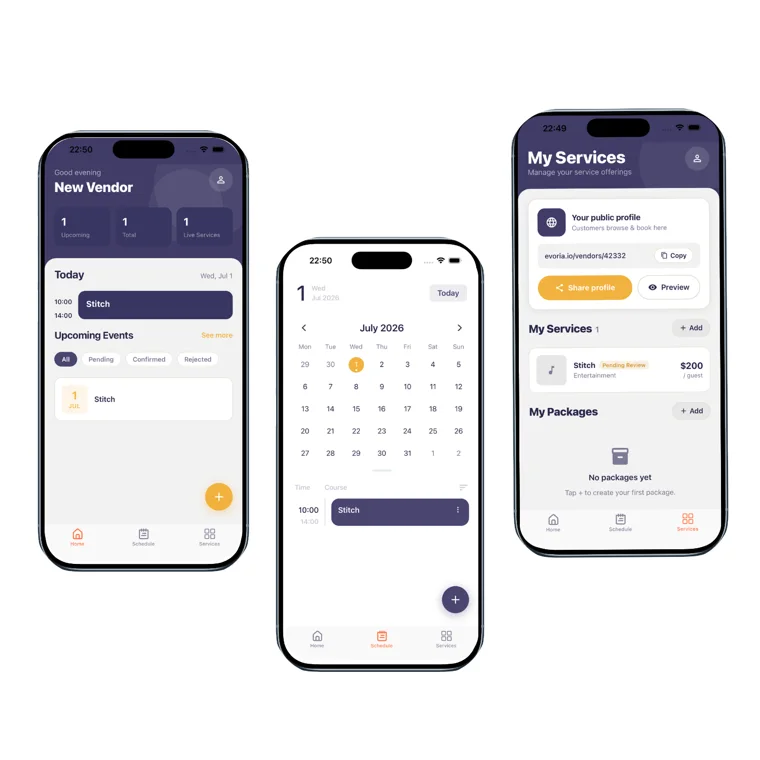
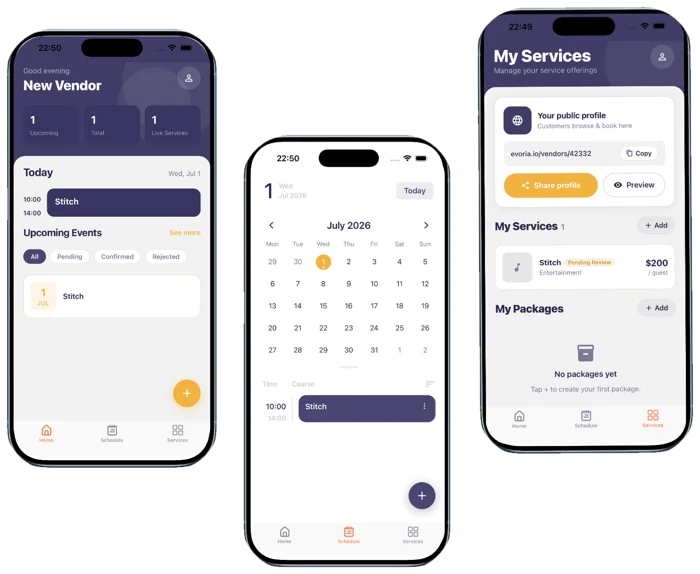
Digital portfolio: no arch backgrounds, smaller exhibits, live sites
- App mockups re-cut as transparent images (outer white removed, screen
  whites kept) and shown without arch/tint, with a soft drop shadow
- Exhibits narrower (max ~1120px, media max 520px) with smaller titles
- Websites now lead with the live Evoria (evoria.io/hy) and Aybora
  (aybora.app) sites as linked typographic browser covers, then Eleene;
  Maison concept removed; exhibits renumbered; meta, schema, llms.txt
  and CLAUDE.md updated

Claude-Session: https://claude.ai/code/session_01JBj9Hz9NSGFPfHG2UGjXpC

diff --git a/websites-apps.html b/websites-apps.html
@@ -12,7 +12,7 @@
 </script>
 <meta name="viewport" content="width=device-width, initial-scale=1, viewport-fit=cover">
 <title>Websites &amp; Mobile Apps — Selected Digital Work | Eleene</title>
-<meta name="description" content="Websites and mobile apps designed and developed by Eleene: an immersive studio website, a brand concept, and iOS and Android apps for events, recipes, travel, recovery and wellness.">
+<meta name="description" content="Websites and mobile apps designed and developed by Eleene: live websites for Evoria and Aybora, the Eleene studio site, and iOS and Android apps for events, recipes, travel, recovery and wellness.">
 <meta name="theme-color" content="#F4EFE7">
 <meta name="robots" content="index, follow, max-image-preview:large">
 <link rel="canonical" href="https://elinahovakimyan.com/websites-apps.html">
@@ -41,12 +41,14 @@
   "mainEntity": {
     "@type": "ItemList",
     "itemListElement": [
-      { "@type": "ListItem", "position": 1, "item": { "@type": "WebSite", "name": "Eleene", "url": "https://elinahovakimyan.com/" } },
-      { "@type": "ListItem", "position": 2, "item": { "@type": "SoftwareApplication", "name": "Evoria", "applicationCategory": "BusinessApplication", "operatingSystem": "iOS, Android" } },
-      { "@type": "ListItem", "position": 3, "item": { "@type": "SoftwareApplication", "name": "Culinar", "applicationCategory": "LifestyleApplication", "operatingSystem": "iOS, Android" } },
-      { "@type": "ListItem", "position": 4, "item": { "@type": "SoftwareApplication", "name": "Travio", "applicationCategory": "TravelApplication", "operatingSystem": "iOS, Android" } },
-      { "@type": "ListItem", "position": 5, "item": { "@type": "SoftwareApplication", "name": "Prehab101", "applicationCategory": "HealthApplication", "operatingSystem": "iOS, Android" } },
-      { "@type": "ListItem", "position": 6, "item": { "@type": "SoftwareApplication", "name": "Casana", "applicationCategory": "LifestyleApplication", "operatingSystem": "iOS, Android" } }
+      { "@type": "ListItem", "position": 1, "item": { "@type": "WebSite", "name": "Evoria", "url": "https://evoria.io/hy" } },
+      { "@type": "ListItem", "position": 2, "item": { "@type": "WebSite", "name": "Aybora", "url": "https://aybora.app/" } },
+      { "@type": "ListItem", "position": 3, "item": { "@type": "WebSite", "name": "Eleene", "url": "https://elinahovakimyan.com/" } },
+      { "@type": "ListItem", "position": 4, "item": { "@type": "SoftwareApplication", "name": "Evoria", "applicationCategory": "BusinessApplication", "operatingSystem": "iOS, Android" } },
+      { "@type": "ListItem", "position": 5, "item": { "@type": "SoftwareApplication", "name": "Culinar", "applicationCategory": "LifestyleApplication", "operatingSystem": "iOS, Android" } },
+      { "@type": "ListItem", "position": 6, "item": { "@type": "SoftwareApplication", "name": "Travio", "applicationCategory": "TravelApplication", "operatingSystem": "iOS, Android" } },
+      { "@type": "ListItem", "position": 7, "item": { "@type": "SoftwareApplication", "name": "Prehab101", "applicationCategory": "HealthApplication", "operatingSystem": "iOS, Android" } },
+      { "@type": "ListItem", "position": 8, "item": { "@type": "SoftwareApplication", "name": "Casana", "applicationCategory": "LifestyleApplication", "operatingSystem": "iOS, Android" } }
     ]
   }
 }
@@ -171,6 +173,19 @@ section{position:relative}
 @keyframes path1{0%{transform:translate(0,0) rotate(10deg);opacity:0}6%{opacity:1}30%{transform:translate(38vw,-6vh) rotate(-6deg)}55%{transform:translate(62vw,8vh) rotate(12deg)}80%{transform:translate(90vw,-4vh) rotate(-4deg);opacity:1}100%{transform:translate(115vw,2vh);opacity:0}}
 @keyframes path2{0%{transform:translate(0,0);opacity:0}8%{opacity:1}40%{transform:translate(45vw,-10vh) rotate(8deg)}70%{transform:translate(80vw,4vh) rotate(-8deg);opacity:1}100%{transform:translate(118vw,-6vh);opacity:0}}
 
+.site-card{display:block;position:relative;padding:0 6% 8% 0}
+.site-cover{display:grid;place-items:center;align-content:center;gap:10px;text-align:center;color:var(--ink);
+  background:radial-gradient(70% 60% at 25% 25%,rgba(255,255,255,.85),transparent 70%),var(--cover,#ECE6F3)}
+.tone-lilac{--cover:linear-gradient(135deg,#EFE9F6,#DCD3EA)}
+.tone-sage{--cover:linear-gradient(135deg,#EEF0E6,#DCE2D2)}
+.tone-lilac .site-cover{background:radial-gradient(70% 60% at 25% 25%,rgba(255,255,255,.85),transparent 70%),linear-gradient(135deg,#EFE9F6,#D9CFE9)}
+.tone-sage .site-cover{background:radial-gradient(70% 60% at 25% 25%,rgba(255,255,255,.85),transparent 70%),linear-gradient(135deg,#F0F1E8,#D7DECB)}
+.site-cover b{font-family:var(--font-display);font-weight:300;font-size:clamp(40px,5vw,72px);line-height:1;letter-spacing:-.01em}
+.site-cover em{font-family:var(--font-display);font-size:clamp(16px,1.5vw,20px);color:var(--ink-soft)}
+.site-cover__star{color:var(--rouge);font-size:18px}
+.site-cover__cta{margin-top:10px;font-size:10.5px;letter-spacing:.22em;text-transform:uppercase;padding:10px 18px;border-radius:999px;background:rgba(255,255,255,.75);box-shadow:inset 0 0 0 1px rgba(168,138,90,.3);transition:background .4s,color .4s}
+.site-card:hover .site-cover__cta{background:var(--ink);color:var(--paper)}
+.site-card:hover .browser{translate:0 -8px}
 /* section heads */
 .sec{padding:clamp(100px,12vw,180px) 0}
 .sec-head{display:grid;gap:26px;align-items:end;margin-bottom:clamp(60px,8vw,110px)}
@@ -179,17 +194,16 @@ section{position:relative}
 .room-no{display:flex;gap:14px;align-items:baseline}.room-no .roman{font-size:26px}
 
 /* exhibits */
-.exhibit{display:grid;grid-template-columns:1.25fr .75fr;gap:clamp(30px,5vw,90px);align-items:center;margin-bottom:clamp(100px,12vw,180px);scroll-margin-top:90px}
+.exhibit{display:grid;grid-template-columns:1fr 1fr;gap:clamp(30px,5vw,80px);align-items:center;max-width:1120px;margin:0 auto clamp(80px,9vw,140px);scroll-margin-top:90px}
 .exhibit:last-child{margin-bottom:0}
-.exhibit.flip{grid-template-columns:.75fr 1.25fr}
+.exhibit.flip{grid-template-columns:1fr 1fr}
 .exhibit.flip .exhibit__media{order:2}
-.exhibit__media{position:relative}
-.vitrine{position:relative;border-radius:999px 999px 28px 28px;overflow:hidden;background:var(--tint,#EFE7E0);box-shadow:0 50px 90px -50px rgba(70,35,30,.5),inset 0 0 0 1px rgba(168,138,90,.18)}
-.vitrine::before{content:"";position:absolute;inset:0;background:radial-gradient(60% 50% at 50% 35%,rgba(255,255,255,.7),transparent 70%);pointer-events:none}
-.vitrine img{position:relative;width:100%;aspect-ratio:1/1.08;object-fit:contain;padding:17% 5% 3%;mix-blend-mode:multiply;transition:transform 1.4s var(--ease)}
-.exhibit:hover .vitrine img{transform:scale(1.03)}
+.exhibit__media{position:relative;width:100%;max-width:520px;justify-self:center}
+.vitrine{position:relative}
+.vitrine img{position:relative;width:100%;height:auto;filter:drop-shadow(0 28px 30px rgba(70,35,30,.22)) drop-shadow(0 4px 6px rgba(70,35,30,.12));transition:transform 1.2s var(--ease)}
+.exhibit:hover .vitrine img{transform:translateY(-8px)}
 .placard .no{font-size:10.5px;letter-spacing:.26em;text-transform:uppercase;color:var(--ink-faint)}
-.placard h3{font-family:var(--font-display);font-weight:300;font-size:clamp(46px,5.4vw,84px);line-height:1;margin:14px 0 6px;letter-spacing:-.01em}
+.placard h3{font-family:var(--font-display);font-weight:300;font-size:clamp(40px,4.2vw,64px);line-height:1;margin:14px 0 6px;letter-spacing:-.01em}
 .placard .kind{font-family:var(--font-display);font-style:italic;font-size:clamp(20px,1.8vw,26px);color:var(--rouge)}
 .placard p{color:var(--ink-soft);margin:20px 0 0;max-width:30em}
 .facts{list-style:none;padding:0;margin:26px 0 0;display:grid;gap:0;border-top:1px solid var(--line);max-width:30em}
@@ -201,7 +215,7 @@ section{position:relative}
 @media(max-width:899px){
   .exhibit,.exhibit.flip{grid-template-columns:1fr;gap:34px}
   .exhibit.flip .exhibit__media{order:0}
-  .vitrine{border-radius:200px 200px 22px 22px}
+  .exhibit__media{max-width:440px}
 }
 
 /* apps section band */
@@ -279,7 +293,7 @@ footer nav{display:flex;gap:22px;flex-wrap:wrap}footer a:hover{color:var(--moon)
     <div>
       <div class="room-no" data-fade><span class="roman">VI.</span><span class="eyebrow">Selected digital work</span></div>
       <h1 class="display" id="page-title" data-fade>Digital places, <br><em>designed and built.</em></h1>
-      <p class="lede" data-fade>Websites and mobile apps I've designed and developed — real products in real hands, alongside concepts that show where a brand could go next.</p>
+      <p class="lede" data-fade>Websites and mobile apps I've designed and developed — real products, live online and in the App Store and Google Play.</p>
       <div class="chips" data-fade>
         <a class="chip" href="#websites"><b>i.</b> Websites</a>
         <a class="chip" href="#apps"><b>ii.</b> Mobile apps</a>
@@ -304,6 +318,58 @@ footer nav{display:flex;gap:22px;flex-wrap:wrap}footer a:hover{color:var(--moon)
       <p class="lede" data-fade>Designed and developed end to end — art direction, layout, motion and the code underneath — so the site feels as considered as the brand behind it, and works on every screen.</p>
     </div>
 
+    <article class="exhibit" id="evoria-site">
+      <div class="exhibit__media" data-fade>
+        <a class="site-card tone-lilac" href="https://evoria.io/hy" target="_blank" rel="noopener" aria-label="Visit Evoria — evoria.io (opens in a new tab)">
+          <div class="browser float tilt-l"><div class="browser__bar"><i></i><i></i><i></i><span>evoria.io</span></div>
+            <div class="browser__screen site-cover">
+              <span class="site-cover__star" aria-hidden="true">✦</span>
+              <b>Evoria</b>
+              <em>evoria.io</em>
+              <span class="site-cover__cta">Visit the live site ↗</span>
+            </div>
+          </div>
+        </a>
+      </div>
+      <div class="placard" data-fade>
+        <span class="no">No. 01 · Live</span>
+        <h3>Evoria</h3>
+        <span class="kind">Website for an event-planning platform</span>
+        <p>The public home of Evoria — the event-planning platform whose vendor app you will find further down this page. Shown here in its Armenian edition.</p>
+        <ul class="facts">
+          <li><span>Role</span><span>Design &amp; development</span></li>
+          <li><span>Live at</span><span>evoria.io</span></li>
+        </ul>
+        <a class="link-arrow" href="https://evoria.io/hy" target="_blank" rel="noopener">Visit evoria.io <span aria-hidden="true">↗</span></a>
+      </div>
+    </article>
+
+    <article class="exhibit flip" id="aybora">
+      <div class="exhibit__media" data-fade>
+        <a class="site-card tone-sage" href="https://aybora.app/" target="_blank" rel="noopener" aria-label="Visit Aybora — aybora.app (opens in a new tab)">
+          <div class="browser float tilt-l"><div class="browser__bar"><i></i><i></i><i></i><span>aybora.app</span></div>
+            <div class="browser__screen site-cover">
+              <span class="site-cover__star" aria-hidden="true">✦</span>
+              <b>Aybora</b>
+              <em>aybora.app</em>
+              <span class="site-cover__cta">Visit the live site ↗</span>
+            </div>
+          </div>
+        </a>
+      </div>
+      <div class="placard" data-fade>
+        <span class="no">No. 02 · Live</span>
+        <h3>Aybora</h3>
+        <span class="kind">Live website</span>
+        <p>A live website, designed and developed from first layout to launch.</p>
+        <ul class="facts">
+          <li><span>Role</span><span>Design &amp; development</span></li>
+          <li><span>Live at</span><span>aybora.app</span></li>
+        </ul>
+        <a class="link-arrow" href="https://aybora.app/" target="_blank" rel="noopener">Visit aybora.app <span aria-hidden="true">↗</span></a>
+      </div>
+    </article>
+
     <article class="exhibit" id="eleene">
       <div class="exhibit__media" data-fade>
         <span class="sparkle" style="right:2%;top:-4%">✦</span>
@@ -313,7 +379,7 @@ footer nav{display:flex;gap:22px;flex-wrap:wrap}footer a:hover{color:var(--moon)
         </div>
       </div>
       <div class="placard" data-fade>
-        <span class="no">No. 01 · Live</span>
+        <span class="no">No. 03 · Live</span>
         <h3>Eleene</h3>
         <span class="kind">An immersive studio website</span>
         <p>The site you are on. A portfolio told as a walk through museum rooms: images that orbit the headline, a gallery that moves sideways as you scroll, a screening room after dark, and small living details — butterflies, drifting petals, a hot-air balloon — that appear without getting in the way of reading.</p>
@@ -326,33 +392,6 @@ footer nav{display:flex;gap:22px;flex-wrap:wrap}footer a:hover{color:var(--moon)
       </div>
     </article>
 
-    <article class="exhibit flip" id="maison">
-      <div class="exhibit__media" data-fade>
-        <span class="sparkle" style="left:0;top:4%;animation-delay:-1.5s">✧</span>
-        <div style="position:relative;padding:0 9% 11% 0">
-          <div class="browser float tilt-l"><div class="browser__bar"><i></i><i></i><i></i><span>yourmaison.com</span></div>
-            <div class="browser__screen" data-cycle>
-              <img class="on" src="assets/work/ivory-meadow-sm.webp" alt="" loading="lazy"><img data-src="assets/work/rouge-staircase-sm.webp" alt=""><img data-src="assets/work/source-golden-hour-sm.webp" alt="">
-              <div class="mock"><div class="mock__nav"><b>Maison</b><span></span><span></span><span></span></div><div class="mock__hero"><em>A new collection</em><b>In full bloom</b><span class="mock__pill">Discover</span></div></div>
-            </div></div>
-          <div class="phone float b tilt-r"><div class="phone__screen" data-cycle>
-            <img class="on" src="assets/work/ivory-bloom-sm.webp" alt="" loading="lazy"><img data-src="assets/work/rouge-headlines-sm.webp" alt=""><img data-src="assets/work/quiet-late-draft-sm.webp" alt="">
-            <div class="mock mock--app"><b>Maison</b></div>
-          </div></div>
-        </div>
-      </div>
-      <div class="placard" data-fade>
-        <span class="no">No. 02 · Concept</span>
-        <h3>Maison</h3>
-        <span class="kind">A fashion house, imagined online</span>
-        <p>An illustrative concept for how a brand's website and app could feel together: full-bleed campaign imagery that slowly changes, quiet navigation, and one clear invitation on every screen — discover the collection, or book a private fitting.</p>
-        <span class="badge">Concept · illustrative brand</span>
-        <ul class="facts">
-          <li><span>Explores</span><span>Website + companion app</span></li>
-          <li><span>Imagery</span><span>From the Eleene collection</span></li>
-        </ul>
-      </div>
-    </article>
   </div>
 </section>
 
@@ -367,10 +406,10 @@ footer nav{display:flex;gap:22px;flex-wrap:wrap}footer a:hover{color:var(--moon)
       <p class="lede" data-fade>Apps I've designed and built for iPhone and Android — real products shipped to the stores, from first sketch to launch. A few favourites, newest first.</p>
     </div>
 
-    <article class="exhibit" style="--tint:#ECE6F3">
+    <article class="exhibit">
       <div class="exhibit__media"><div class="vitrine reveal"><img src="assets/work/app-evoria.webp" srcset="assets/work/app-evoria-sm.webp 760w, assets/work/app-evoria.webp 1400w" sizes="(max-width:899px) 92vw, 55vw" alt="Evoria app screens: a vendor's daily schedule, a monthly booking calendar, and a public profile with services and packages" decoding="async"></div></div>
       <div class="placard" data-fade>
-        <span class="no">No. 03</span>
+        <span class="no">No. 04</span>
         <h3>Evoria</h3>
         <span class="kind">AI event planning</span>
         <p>A home for event vendors: today's bookings at a glance, a calendar of upcoming events, and a shareable public profile where clients browse services and packages.</p>
@@ -378,10 +417,10 @@ footer nav{display:flex;gap:22px;flex-wrap:wrap}footer a:hover{color:var(--moon)
       </div>
     </article>
 
-    <article class="exhibit flip" style="--tint:#E7EBDF">
+    <article class="exhibit flip">
       <div class="exhibit__media"><div class="vitrine reveal"><img src="assets/work/app-culinar.webp" srcset="assets/work/app-culinar-sm.webp 760w, assets/work/app-culinar.webp 1400w" sizes="(max-width:899px) 92vw, 55vw" alt="Culinar app screens: a welcome screen, featured recipes by category, and a recipe with nutrition and step-by-step instructions" decoding="async"></div></div>
       <div class="placard" data-fade>
-        <span class="no">No. 04</span>
+        <span class="no">No. 05</span>
         <h3>Culinar</h3>
         <span class="kind">Recipes &amp; meal planning</span>
         <p>A recipe app with an appetite for detail: featured and seasonal collections, nutrition at a glance, and calm step-by-step instructions for cooking along.</p>
@@ -389,10 +428,10 @@ footer nav{display:flex;gap:22px;flex-wrap:wrap}footer a:hover{color:var(--moon)
       </div>
     </article>
 
-    <article class="exhibit" style="--tint:#E3E8EE">
+    <article class="exhibit">
       <div class="exhibit__media"><div class="vitrine reveal"><img src="assets/work/app-travio.webp" srcset="assets/work/app-travio-sm.webp 760w, assets/work/app-travio.webp 1400w" sizes="(max-width:899px) 92vw, 55vw" alt="Travio app screens: a Colosseum destination card, a welcome screen, and a city map" decoding="async"></div></div>
       <div class="placard" data-fade>
-        <span class="no">No. 05</span>
+        <span class="no">No. 06</span>
         <h3>Travio</h3>
         <span class="kind">Trip planning &amp; maps</span>
         <p>A travel companion for planning the days ahead — destination cards, places worth the detour and maps that keep everything in reach.</p>
@@ -400,10 +439,10 @@ footer nav{display:flex;gap:22px;flex-wrap:wrap}footer a:hover{color:var(--moon)
       </div>
     </article>
 
-    <article class="exhibit flip" style="--tint:#EEE4DA">
+    <article class="exhibit flip">
       <div class="exhibit__media"><div class="vitrine reveal"><img src="assets/work/app-prehab101.webp" srcset="assets/work/app-prehab101-sm.webp 760w, assets/work/app-prehab101.webp 1400w" sizes="(max-width:899px) 92vw, 55vw" alt="Prehab101 app screens: a recovery programme with exercise videos, set tracking, and phase progress" decoding="async"></div></div>
       <div class="placard" data-fade>
-        <span class="no">No. 06</span>
+        <span class="no">No. 07</span>
         <h3>Prehab101</h3>
         <span class="kind">Guided recovery</span>
         <p>Step-by-step recovery programmes, organised in phases, with exercise videos, set tracking and progress that shows how far you've come.</p>
@@ -411,10 +450,10 @@ footer nav{display:flex;gap:22px;flex-wrap:wrap}footer a:hover{color:var(--moon)
       </div>
     </article>
 
-    <article class="exhibit" style="--tint:#F1E3DE">
+    <article class="exhibit">
       <div class="exhibit__media"><div class="vitrine reveal"><img src="assets/work/app-casana.webp" srcset="assets/work/app-casana-sm.webp 760w, assets/work/app-casana.webp 1400w" sizes="(max-width:899px) 92vw, 55vw" alt="Casana app screens: a Spanish-language home feed, a guided meditation, and a list of routines and recipes" decoding="async"></div></div>
       <div class="placard" data-fade>
-        <span class="no">No. 07</span>
+        <span class="no">No. 08</span>
         <h3>Casana</h3>
         <span class="kind">Home &amp; lifestyle</span>
         <p>A Spanish-language wellbeing app: guided meditations, gentle routines and healthy recipes, with video at the heart of every screen.</p>

diff --git a/CLAUDE.md b/CLAUDE.md
@@ -16,7 +16,7 @@ There are no build, lint, or test commands.
 
 ## Architecture
 
-The homepage lives in **`index.html`**; **`websites-apps.html`** is a standalone digital portfolio page (same tokens and motifs, self-contained CSS/JS: hero with device frames, website exhibits Eleene + Maison concept, five shipped apps in arch "vitrines", what's included, CTA to `index.html?type=website|app#contact`). Service and Digital CTAs on the homepage link to it ("Check my works"). The homepage itself is a single file (inline `<style>` in the head, inline `<script>` at the end of body, Google Fonts only).
+The homepage lives in **`index.html`**; **`websites-apps.html`** is a standalone digital portfolio page (same tokens and motifs, self-contained CSS/JS: hero with device frames, website exhibits Evoria (evoria.io/hy) + Aybora (aybora.app) as typographic browser covers linking to the live sites, then Eleene with real screenshots; five shipped apps as transparent cut-outs (no backgrounds), what's included, CTA to `index.html?type=website|app#contact`). Service and Digital CTAs on the homepage link to it ("Check my works"). The homepage itself is a single file (inline `<style>` in the head, inline `<script>` at the end of body, Google Fonts only).
 
 - **Design tokens** on `:root`: colours `--paper`, `--ink`, `--rouge`, `--gold`, `--night`, `--moon`…; fonts `--font-display` (Cormorant Garamond) and `--font-body` (Jost); `--gutter`, `--ease`.
 - **Nav:** Work · Films · Digital · Services · Studio · Contact. Directly under the hero, the running line (`.marquee`, a `<nav>`) is the service index: every word links to its service (`#svc-visuals`, `#svc-films`, `#svc-websites`, `#svc-apps`) and the line pauses on hover/focus.
